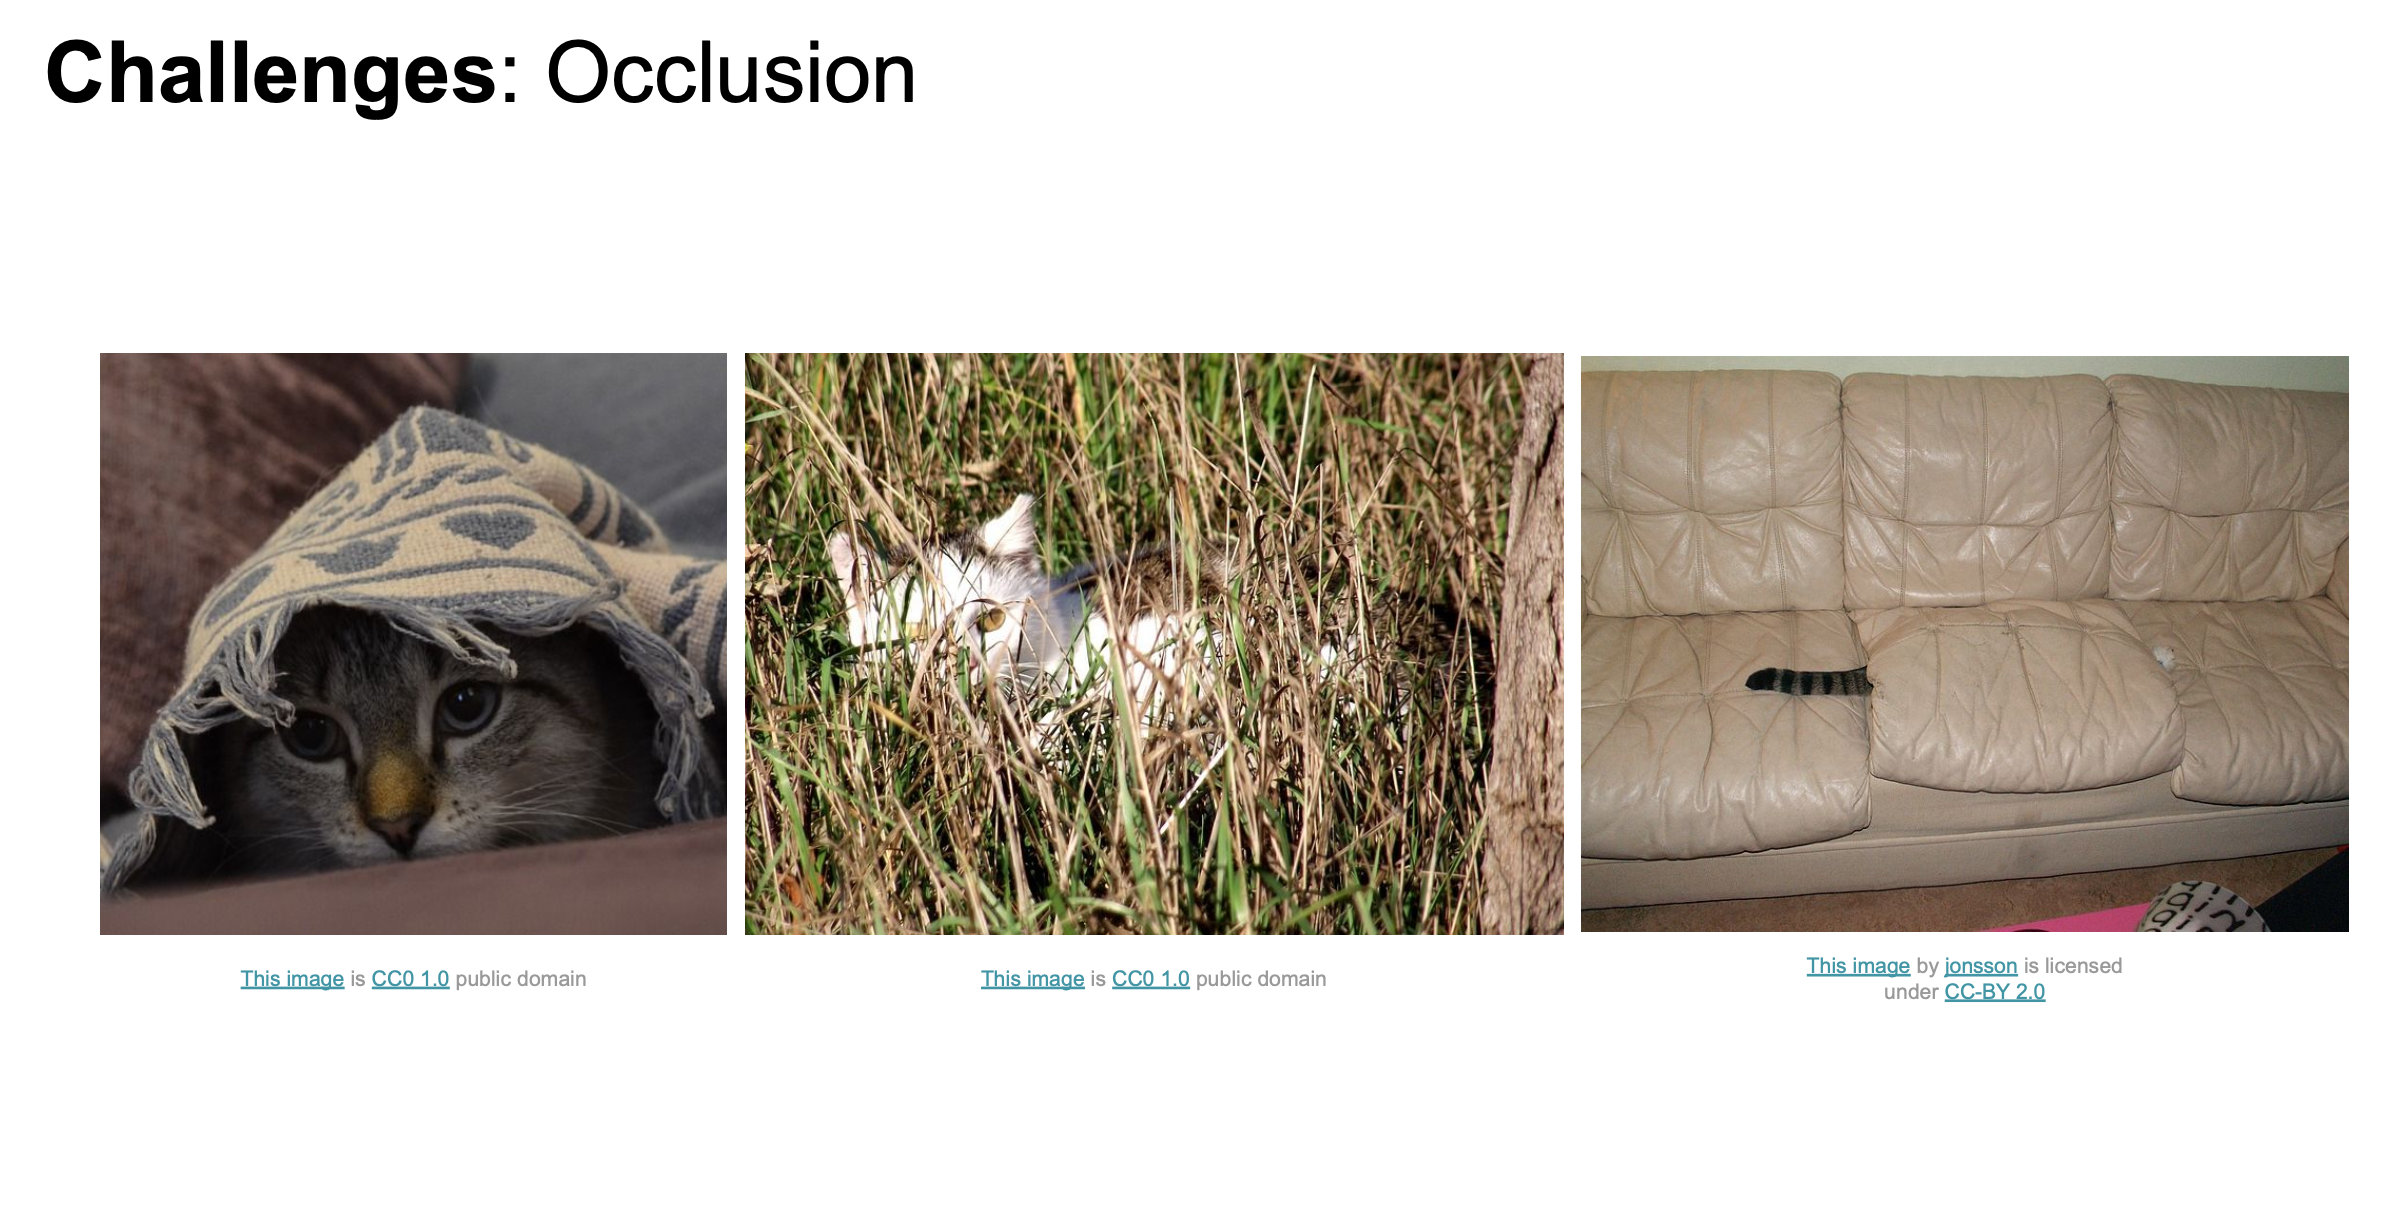
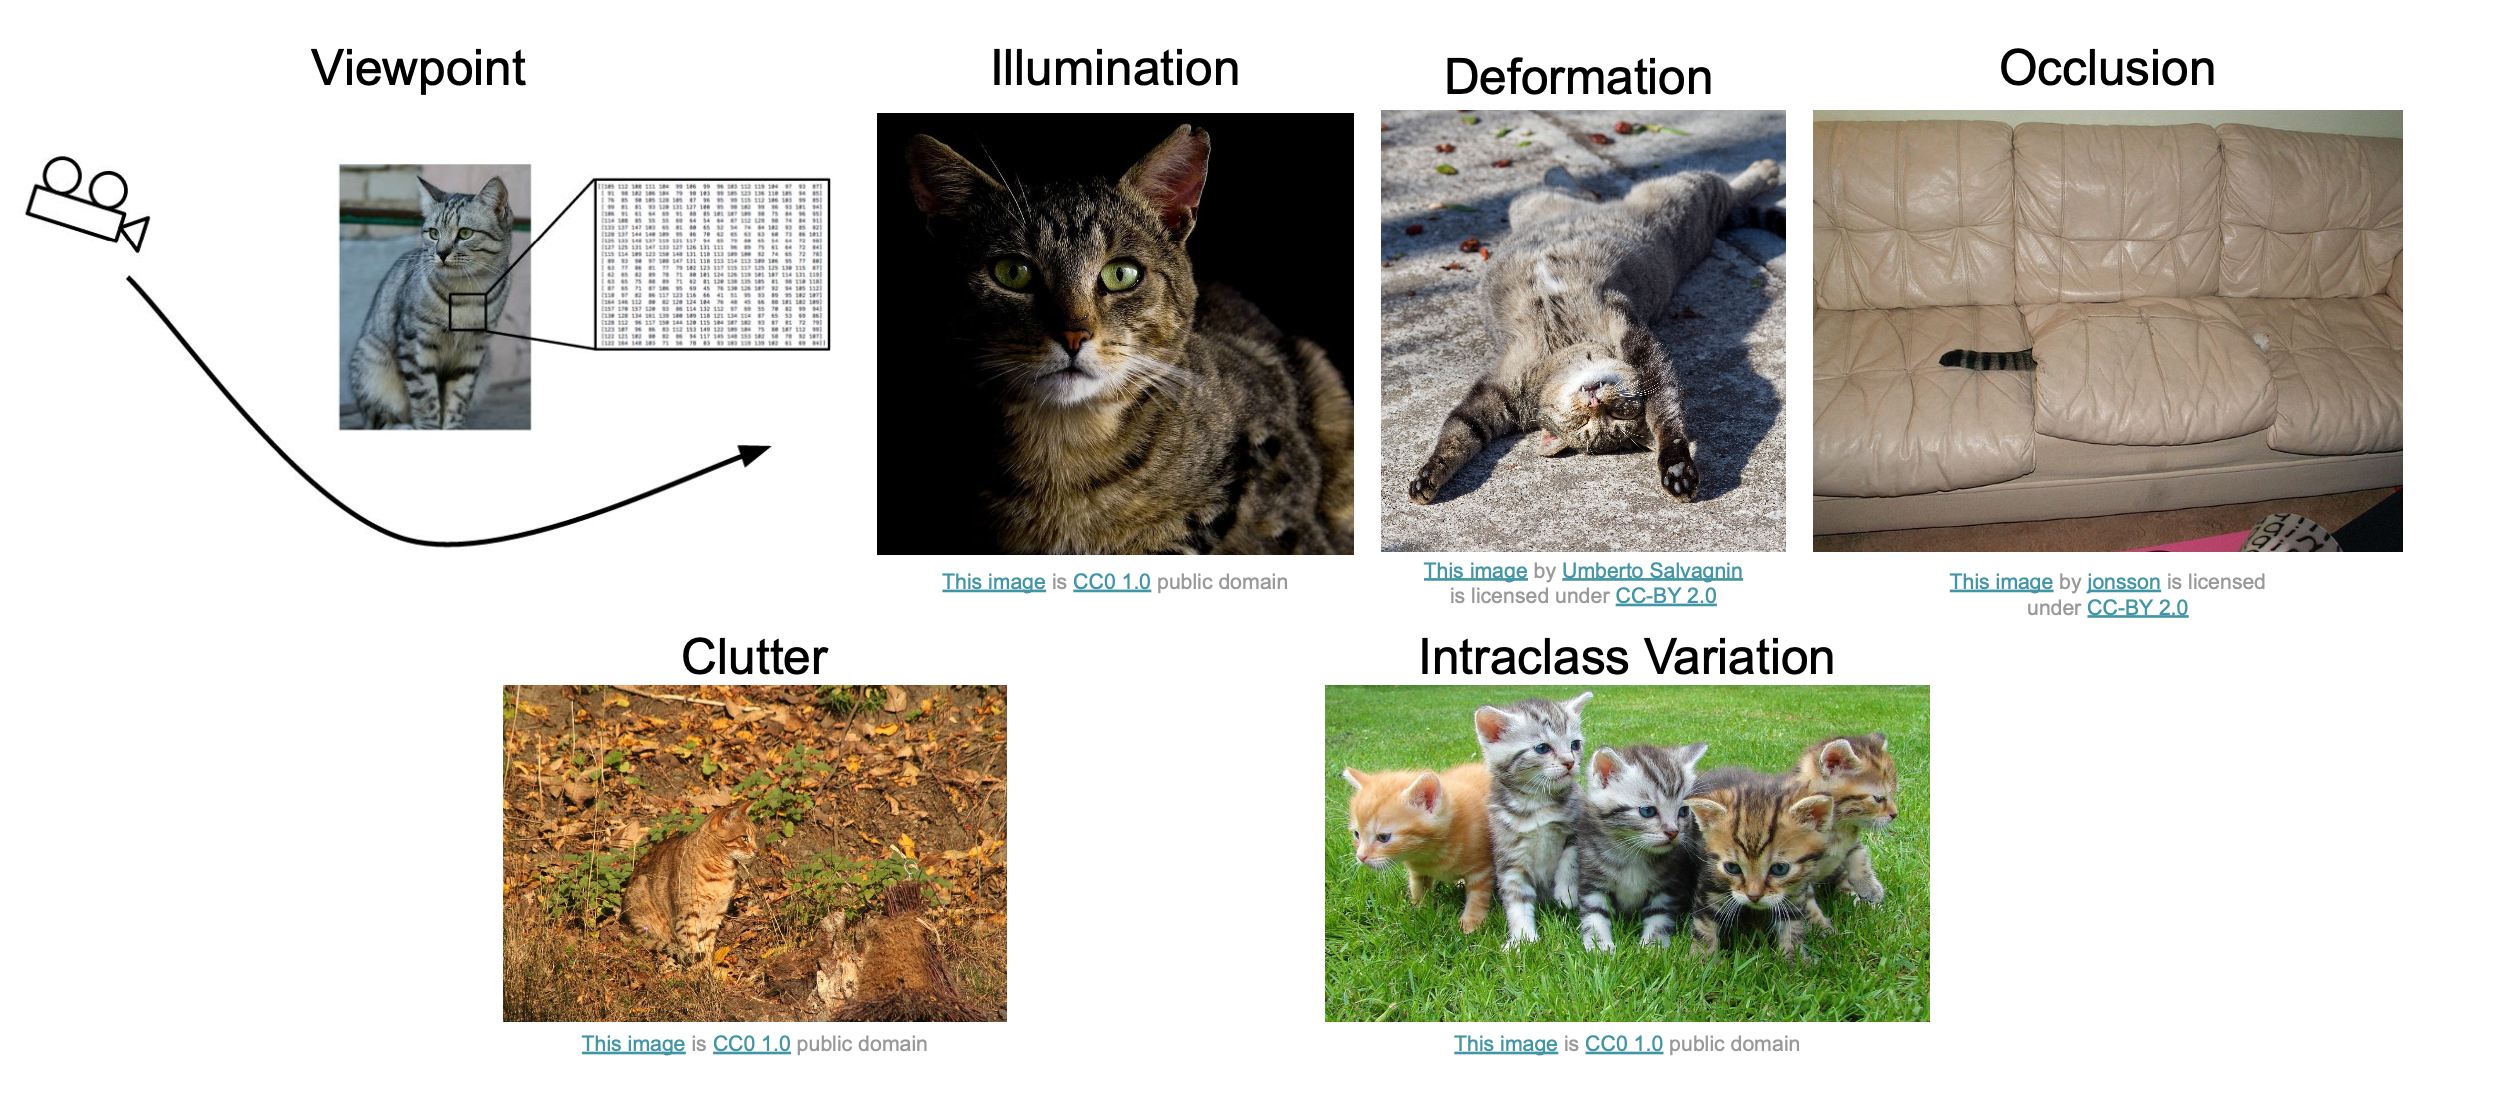
image

diff --git a/_posts/2023-05-28-cs231-image-classification-linear.md b/_posts/2023-05-28-cs231-image-classification-linear.md
@@ -43,23 +43,13 @@ toc:
 </div>
 
 
-하지만, 만약 고양이 사진을 다른 각도에서 찍거나 조명이 달라지거나 한다면 밝기 성분은 당연히 달라질 수 밖에 없겠죠. 사람은 같은 고양이로 인식할 것입니다. 누워있던 숨어있던 뒤돌아 있던, 하지만 컴퓨터는 어렵죠.
+하지만, 만약 고양이 사진을 다른 각도에서 찍거나 조명이 달라지거나 한다면 밝기 성분은 당연히 달라질 수 밖에 없겠죠. 사람은 같은 고양이로 인식할 것입니다. 누워있던 숨어있던 뒤돌아 있던, 하지만 컴퓨터는 어렵죠.<br>
 
+Challenges of recognition : 
 <div class="row mt-3">
     <div class="col-sm mt-3 mt-md-0">
         {% include figure.html path="/assets/img/cs231n/assignment1/pic49.png" class="img-fluid rounded z-depth-1" zoomable=true %}
     </div>
-    <div class="col-sm mt-3 mt-md-0">
-        {% include figure.html path="/assets/img/cs231n/assignment1/pic50.png" class="img-fluid rounded z-depth-1" zoomable=true %}
-    </div>    
-</div>
-<div class="row mt-3">
-    <div class="col-sm mt-3 mt-md-0">
-        {% include figure.html path="/assets/img/cs231n/assignment1/pic51.png" class="img-fluid rounded z-depth-1" zoomable=true %}
-    </div>
-    <div class="col-sm mt-3 mt-md-0">
-        {% include figure.html path="/assets/img/cs231n/assignment1/pic52.png" class="img-fluid rounded z-depth-1" zoomable=true %}
-    </div>    
 </div>
 
 물론 고전적인 Computer vision에서는 edge detection 등 많은 방식으로 Classification task(분류 문제)를 풀려고 했습니다. 하지만 이렇다할 성능을 보이지는 못했고, 현대에 와서는 Data-driven 방식의 머신러닝 기법을 적용하게 되었습니다.
